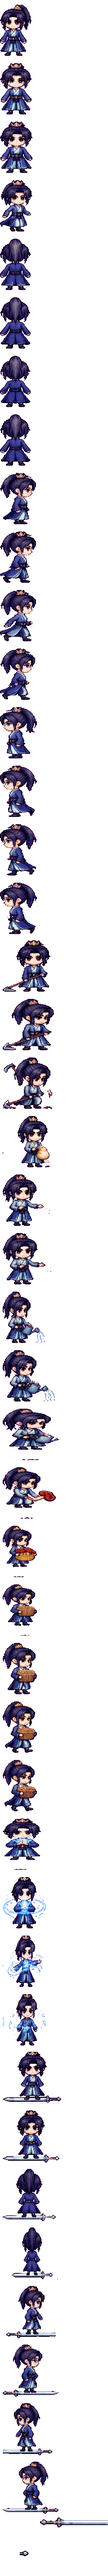
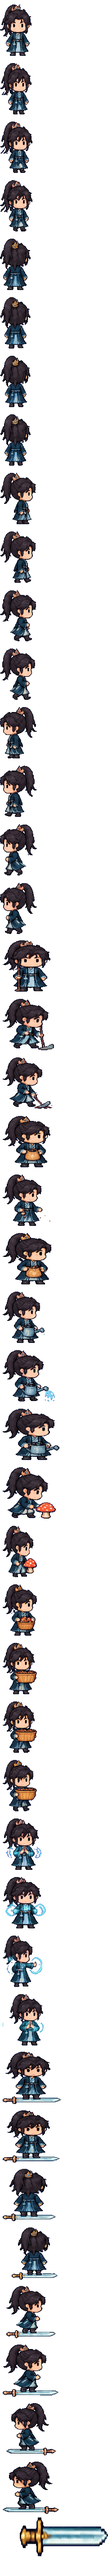
fix18：主角形象校正——参考图锚定重生128整表（shyfai edits，参考=定版px1锚点卡+正面站姿，$0.012一次成功）；三门验收：配色（发艳紫0.70→≤0.026、袍主色相208藏青带、梅紫阴影37751px色域校正）、比例（站走组内宽极差≤2.8%、高0%）、姿势（飞8帧全站立踏剑、sl镜像校验）；飞帧锚点头部质心配准（全组Δ≤1.5px）；RE国资不变、弟子/场景/UI/逻辑零改动；fix17 14/14、runall 24套件全绿、fix16 17/18（③为空采样、fix17基线同败、非本批引入）

Changed region(s): [[0.0, 0.0, 0.9917, 0.9958]]

diff --git a/index.html b/index.html
@@ -3515,7 +3515,7 @@ Object.assign(BODY3, { "px_master_front_v1.png": [1.0, 137, 48.0, 12], "px_maste
 /* 像素锚点（slice_work11 离线实测：转正 pxp 16 帧沿试点值＋pxf 新帧逐帧测；[旧缩放列停用, 脚底行, 头部质心x, 头顶行]） */
 Object.assign(BODY3, {"pxp_master_stand_b_v1.png": [1.0, 61, 16.5, 5], "pxp_master_stand_f_v1.png": [1.0, 61, 16.5, 5], "pxp_master_stand_sl_v1.png": [1.0, 61, 21.5, 5], "pxp_master_stand_sr_v1.png": [1.0, 61, 19.0, 5], "pxp_master_walk_b1_v1.png": [1.0, 61, 16.0, 5], "pxp_master_walk_b2_v1.png": [1.0, 61, 16.5, 5], "pxp_master_walk_b3_v1.png": [1.0, 61, 16.0, 5], "pxp_master_walk_f1_v1.png": [1.0, 61, 16.5, 5], "pxp_master_walk_f2_v1.png": [1.0, 61, 17.0, 5], "pxp_master_walk_f3_v1.png": [1.0, 61, 17.0, 5], "pxp_master_walk_sl1_v1.png": [1.0, 61, 21.5, 5], "pxp_master_walk_sl2_v1.png": [1.0, 61, 21.0, 5], "pxp_master_walk_sl3_v1.png": [1.0, 61, 21.5, 5], "pxp_master_walk_sr1_v1.png": [1.0, 61, 19.0, 5], "pxp_master_walk_sr2_v1.png": [1.0, 61, 19.0, 5], "pxp_master_walk_sr3_v1.png": [1.0, 61, 18.5, 5], "pxf_master_cast_1.png": [1.0, 60, 20.4, 4], "pxf_master_cast_2.png": [1.0, 60, 21.5, 4], "pxf_master_cast_3.png": [1.0, 60, 20.3, 4], "pxf_master_cast_4.png": [1.0, 60, 21.5, 4], "pxf_master_fly_b_1.png": [1.0, 59, 29.8, 3], "pxf_master_fly_b_2.png": [1.0, 58, 37, 3], "pxf_master_fly_f_1.png": [1.0, 59, 29.1, 3], "pxf_master_fly_f_2.png": [1.0, 59, 29.1, 3], "pxf_master_fly_sl_1.png": [1.0, 59, 37.2, 3], "pxf_master_fly_sl_2.png": [1.0, 59, 38, 3], "pxf_master_fly_sr_1.png": [1.0, 58, 28.1, 3], "pxf_master_fly_sr_2.png": [1.0, 58, 30.3, 3], "pxf_master_harvest_1.png": [1.0, 60, 24.9, 4], "pxf_master_harvest_2.png": [1.0, 60, 20.5, 4], "pxf_master_harvest_3.png": [1.0, 60, 20.7, 4], "pxf_master_hoe_1.png": [1.0, 60, 20.5, 4], "pxf_master_hoe_2.png": [1.0, 60, 26.0, 4], "pxf_master_hoe_3.png": [1.0, 60, 21.3, 4], "pxf_master_sow_1.png": [1.0, 60, 20.4, 4], "pxf_master_sow_2.png": [1.0, 60, 20.4, 4], "pxf_master_sow_3.png": [1.0, 60, 20.5, 4], "pxf_master_water_1.png": [1.0, 60, 22.0, 4], "pxf_master_water_2.png": [1.0, 60, 22.1, 4], "pxf_master_water_3.png": [1.0, 60, 21.5, 4], "pxf_male_carry_1.png": [1.0, 60, 15.3, 4], "pxf_male_carry_2.png": [1.0, 60, 17.3, 4], "pxf_male_carry_3.png": [1.0, 60, 16.6, 4], "pxf_male_carry_4.png": [1.0, 60, 16.8, 4], "pxf_male_harvest_1.png": [1.0, 60, 24.6, 4], "pxf_male_stand_b.png": [1.0, 60, 16.5, 4], "pxf_male_stand_f.png": [1.0, 60, 16.2, 4], "pxf_male_stand_sl.png": [1.0, 60, 18.0, 4], "pxf_male_stand_sr.png": [1.0, 60, 15.1, 4], "pxf_male_walk_b1.png": [1.0, 60, 16.0, 4], "pxf_male_walk_b2.png": [1.0, 60, 16.5, 4], "pxf_male_walk_b3.png": [1.0, 60, 16.0, 4], "pxf_male_walk_f1.png": [1.0, 60, 15.9, 4], "pxf_male_walk_f2.png": [1.0, 60, 16.0, 4], "pxf_male_walk_f3.png": [1.0, 60, 16.0, 4], "pxf_male_walk_sl1.png": [1.0, 60, 17.5, 4], "pxf_male_walk_sl2.png": [1.0, 60, 17.5, 4], "pxf_male_walk_sl3.png": [1.0, 60, 17.5, 4], "pxf_male_walk_sr1.png": [1.0, 60, 15.1, 4], "pxf_male_walk_sr2.png": [1.0, 60, 14.7, 4], "pxf_male_walk_sr3.png": [1.0, 60, 14.7, 4], "pxf_male_water_0.png": [1.0, 60, 16.1, 4], "pxf_male_water_1.png": [1.0, 60, 20.7, 4], "pxf_male_water_2.png": [1.0, 60, 44.0, 4], "pxf_male_water_3.png": [1.0, 60, 21.7, 4], "pxf_female_carry_1.png": [1.0, 60, 17.0, 4], "pxf_female_carry_2.png": [1.0, 60, 16.6, 4], "pxf_female_carry_3.png": [1.0, 60, 16.4, 4], "pxf_female_carry_4.png": [1.0, 60, 16.8, 4], "pxf_female_harvest_1.png": [1.0, 60, 14.6, 4], "pxf_female_harvest_2.png": [1.0, 60, 16.9, 4], "pxf_female_harvest_3.png": [1.0, 60, 17.1, 4], "pxf_female_stand_b.png": [1.0, 60, 19.9, 4], "pxf_female_stand_f.png": [1.0, 60, 20.4, 4], "pxf_female_stand_sl.png": [1.0, 60, 17.7, 4], "pxf_female_stand_sr.png": [1.0, 60, 17.3, 4], "pxf_female_walk_b1.png": [1.0, 60, 20.4, 4], "pxf_female_walk_b2.png": [1.0, 60, 20.5, 4], "pxf_female_walk_f1.png": [1.0, 60, 20.3, 4], "pxf_female_walk_f2.png": [1.0, 60, 20.0, 4], "pxf_female_walk_f3.png": [1.0, 60, 20.4, 4], "pxf_female_walk_sl1.png": [1.0, 60, 18.5, 4], "pxf_female_walk_sl2.png": [1.0, 60, 18.5, 4], "pxf_female_walk_sl3.png": [1.0, 60, 18.5, 4], "pxf_female_walk_sr1.png": [1.0, 60, 17.3, 4], "pxf_female_walk_sr2.png": [1.0, 60, 18.5, 4], "pxf_female_walk_sr3.png": [1.0, 60, 17.1, 4], "pxf_female_water_1.png": [1.0, 60, 38.4, 4], "pxf_female_water_2.png": [1.0, 60, 40.2, 4]})
 /* fix17: 主角 128 网格专属锚点（与 BODY3 同格式 [scale, foot, cx, top]；飞帧已按头部质心配准到同向站立帧） */
-const HERO128_B = {"pxp_master_stand_f_v1.png":[1.0,122,33.0,10],"pxp_master_walk_f1_v1.png":[1.0,122,33.0,10],"pxp_master_walk_f2_v1.png":[1.0,122,34.0,10],"pxp_master_walk_f3_v1.png":[1.0,122,34.0,10],"pxp_master_stand_b_v1.png":[1.0,122,33.0,10],"pxp_master_walk_b1_v1.png":[1.0,122,32.0,10],"pxp_master_walk_b2_v1.png":[1.0,122,33.0,10],"pxp_master_walk_b3_v1.png":[1.0,122,32.0,10],"pxp_master_stand_sr_v1.png":[1.0,122,38.0,10],"pxp_master_walk_sr1_v1.png":[1.0,122,38.0,10],"pxp_master_walk_sr2_v1.png":[1.0,122,38.0,10],"pxp_master_walk_sr3_v1.png":[1.0,122,37.0,10],"pxp_master_stand_sl_v1.png":[1.0,122,43.0,10],"pxp_master_walk_sl1_v1.png":[1.0,122,43.0,10],"pxp_master_walk_sl2_v1.png":[1.0,122,42.0,10],"pxp_master_walk_sl3_v1.png":[1.0,122,43.0,10],"pxf_master_hoe_1.png":[1.0,120,41.0,8],"pxf_master_hoe_2.png":[1.0,120,52.0,8],"pxf_master_hoe_3.png":[1.0,120,42.6,8],"pxf_master_sow_1.png":[1.0,120,40.8,8],"pxf_master_sow_2.png":[1.0,120,40.8,8],"pxf_master_sow_3.png":[1.0,120,41.0,8],"pxf_master_water_1.png":[1.0,120,44.0,8],"pxf_master_water_2.png":[1.0,120,44.2,8],"pxf_master_water_3.png":[1.0,120,43.0,8],"pxf_master_harvest_1.png":[1.0,120,49.8,8],"pxf_master_harvest_2.png":[1.0,120,41.0,8],"pxf_master_harvest_3.png":[1.0,120,41.4,8],"pxf_master_carry_1.png":[1.0,120,41.4,8],"pxf_master_carry_2.png":[1.0,120,41.4,8],"pxf_master_carry_3.png":[1.0,120,41.4,8],"pxf_master_cast_1.png":[1.0,120,40.8,8],"pxf_master_cast_2.png":[1.0,120,43.0,8],"pxf_master_cast_3.png":[1.0,120,40.6,8],"pxf_master_cast_4.png":[1.0,120,43.0,8],"pxf_master_fly_f_1.png":[1.0,117,68.3,6],"pxf_master_fly_f_2.png":[1.0,118,65.1,6],"pxf_master_fly_b_1.png":[1.0,119,63.9,6],"pxf_master_fly_b_2.png":[1.0,118,70.3,6],"pxf_master_fly_sr_1.png":[1.0,118,67.5,6],"pxf_master_fly_sr_2.png":[1.0,118,57.9,6],"pxf_master_fly_sl_1.png":[1.0,118,61.4,6],"pxf_master_fly_sl_2.png":[1.0,118,77.0,6],"pxf_master_sword.png":[1.0,86,120.0,0]};
+const HERO128_B = {"pxp_master_stand_f_v1.png":[1.0,122,33,10],"pxp_master_walk_f1_v1.png":[1.0,122,33,10],"pxp_master_walk_f2_v1.png":[1.0,122,34,10],"pxp_master_walk_f3_v1.png":[1.0,122,34,10],"pxp_master_stand_b_v1.png":[1.0,122,33,10],"pxp_master_walk_b1_v1.png":[1.0,122,32,10],"pxp_master_walk_b2_v1.png":[1.0,122,33,10],"pxp_master_walk_b3_v1.png":[1.0,122,32,10],"pxp_master_stand_sr_v1.png":[1.0,122,38,10],"pxp_master_walk_sr1_v1.png":[1.0,122,38,10],"pxp_master_walk_sr2_v1.png":[1.0,122,38,10],"pxp_master_walk_sr3_v1.png":[1.0,122,37,10],"pxp_master_stand_sl_v1.png":[1.0,122,39,10],"pxp_master_walk_sl1_v1.png":[1.0,122,39,10],"pxp_master_walk_sl2_v1.png":[1.0,122,40,10],"pxp_master_walk_sl3_v1.png":[1.0,122,39,10],"pxf_master_hoe_1.png":[1.0,120,41,8],"pxf_master_hoe_2.png":[1.0,120,52,8],"pxf_master_hoe_3.png":[1.0,120,42.6,8],"pxf_master_sow_1.png":[1.0,120,40.8,8],"pxf_master_sow_2.png":[1.0,120,40.8,8],"pxf_master_sow_3.png":[1.0,120,41,8],"pxf_master_water_1.png":[1.0,120,44,8],"pxf_master_water_2.png":[1.0,120,44.2,8],"pxf_master_water_3.png":[1.0,120,43,8],"pxf_master_harvest_1.png":[1.0,120,49.8,8],"pxf_master_harvest_2.png":[1.0,120,41,8],"pxf_master_harvest_3.png":[1.0,120,41.4,8],"pxf_master_carry_1.png":[1.0,120,41.4,8],"pxf_master_carry_2.png":[1.0,120,41.4,8],"pxf_master_carry_3.png":[1.0,120,41.4,8],"pxf_master_cast_1.png":[1.0,120,40.8,8],"pxf_master_cast_2.png":[1.0,120,43,8],"pxf_master_cast_3.png":[1.0,120,40.6,8],"pxf_master_cast_4.png":[1.0,120,43,8],"pxf_master_fly_f_1.png":[1.0,118,58.3,6],"pxf_master_fly_f_2.png":[1.0,118,59.1,6],"pxf_master_fly_b_1.png":[1.0,118,62.1,6],"pxf_master_fly_b_2.png":[1.0,118,74.5,6],"pxf_master_fly_sr_1.png":[1.0,118,57.3,6],"pxf_master_fly_sr_2.png":[1.0,118,54.4,6],"pxf_master_fly_sl_1.png":[1.0,118,63.8,6],"pxf_master_fly_sl_2.png":[1.0,118,65.5,6],"pxf_master_sword.png":[1.0,86,120,0]};
 Object.assign(BODY3, {"pxf_tri_master_front.png": [1.0, 60, 15.0, 4], "pxf_tri_master_back.png": [1.0, 60, 13.5, 4], "pxf_tri_master_side.png": [1.0, 60, 18.5, 4], "pxf_tri_master_side34.png": [1.0, 60, 18.0, 4], "pxf_tri_male_front.png": [1.0, 60, 14.5, 3], "pxf_tri_male_back.png": [1.0, 60, 13.5, 3], "pxf_tri_male_side.png": [1.0, 60, 15.5, 4], "pxf_tri_male_side34.png": [1.0, 60, 14.5, 5], "pxf_tri_female_front.png": [1.0, 60, 19.0, 3], "pxf_tri_female_back.png": [1.0, 60, 17.0, 4], "pxf_tri_female_side.png": [1.0, 60, 16.5, 4], "pxf_tri_female_side34.png": [1.0, 60, 16.5, 5], "pxf_tri_female2_front.png": [1.0, 60, 14.0, 5], "pxf_tri_female2_back.png": [1.0, 60, 13.5, 3], "pxf_tri_female2_side.png": [1.0, 60, 15.5, 4], "pxf_tri_female2_side34.png": [1.0, 60, 15.5, 3]});   /* 像素全量批·程二：S3 三视锚点（slice_work11 离线实测） */;
 const Render = {
   cv: null, ctx: null, sprites: {},
